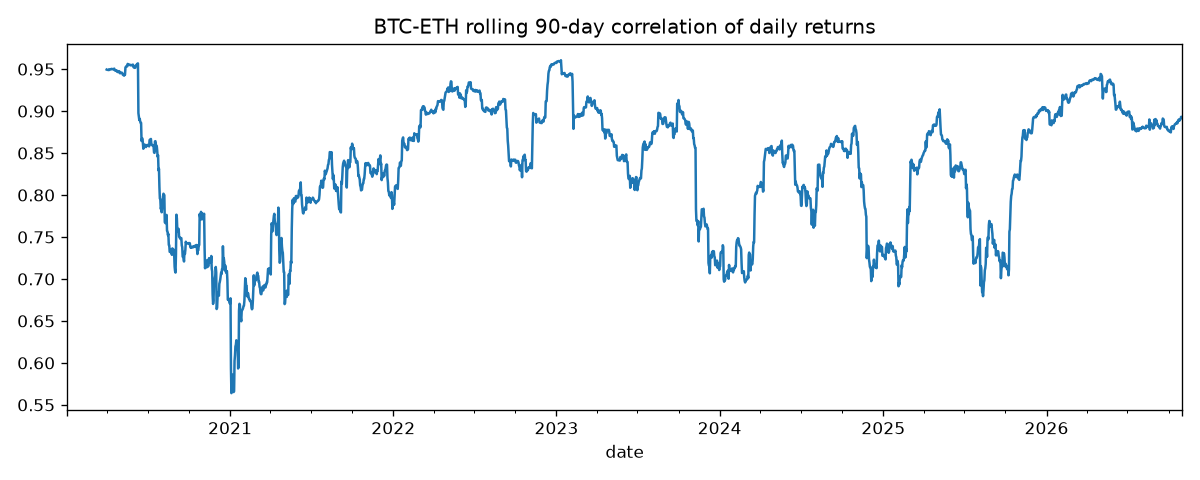
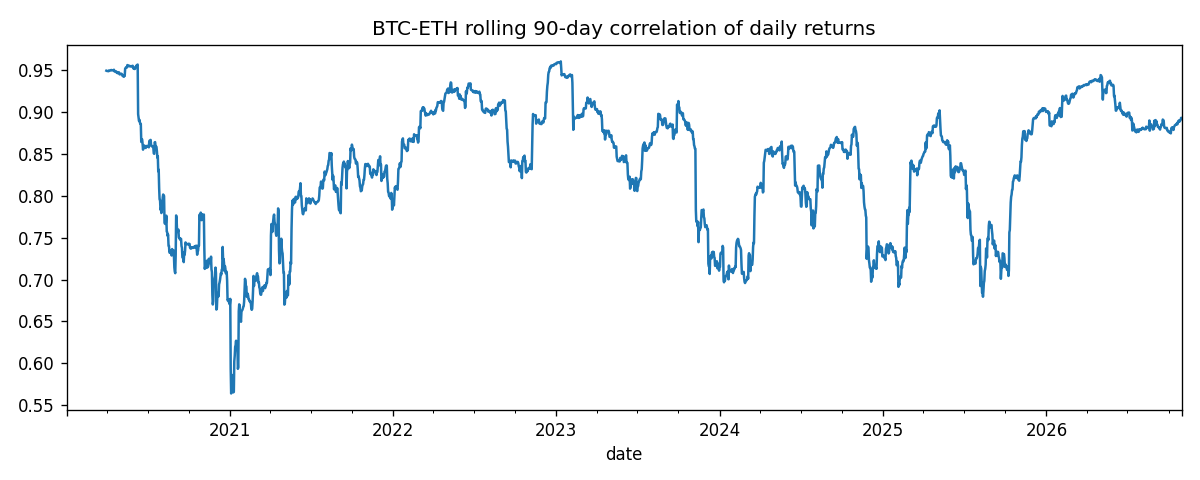
Day 7: complete log, clean requirements

diff --git a/decision_log.md b/decision_log.md
@@ -109,20 +109,12 @@
 \- ACF of squared returns: positive at all 10 lags for BTC and ETH; ETH is stronger (lags 1, 2, 4, 5, 7 above the band vs 1, 4, 7 for BTC). This is volatility clustering, which is why Week 5 forecasts volatility. Spikes at lags 4 and 7 appear in both coins: unexplained, possibly a weekly effect or driven by a few extreme shared days.
 
 
+## Day 7
 
-
-
-\## Day 7
-
-
-
-\- Correlation measured on returns, not prices (price correlation is inflated by shared trends). BTC-ETH return correlation: <value> (bootstrap 95% interval <range>).
-
-\- ETH is more volatile than BTC: std ratio <value>, ETH moved more on <share> of days (Wilcoxon p <value>).
-
-\- Mann-Whitney U used for fraud vs normal because amounts are skewed. Effect sizes (P fraud > normal): amount <value>, v14 <value>, v17 <value>. Features, not amount, carry the signal.
-
-\- p-values are tiny with 280k rows, so effect sizes drive decisions.
-
-\- Week 2 findings summarized in EDA\_findings.md.
-
+- Correlation measured on returns, not prices (shared trends can inflate price correlation). BTC-ETH return correlation: 0.833 Pearson, 0.816 Spearman (bootstrap 95% interval 0.804 to 0.863); log price correlation was 0.868. BTC explains about 69% of ETH's daily variation.
+- Rolling 90-day correlation ranges 0.56 to 0.96 and is highest in windows containing the March 2020 and November 2022 crashes: diversification between BTC and ETH weakens in stress (two episodes, so a pattern, not a proven law).
+- ETH is more volatile than BTC: std ratio 1.34 (4.2% vs 3.14%), ETH moved more on 65.3% of days (Wilcoxon p < 0.0001).
+- Mann-Whitney U used for fraud vs normal because amounts are skewed. Effect sizes (P fraud > normal): amount 0.444 (weak), v17 0.200 (strong), v14 0.053 (very strong). Features, not amount, carry the signal.
+- After dedup, median fraud amount is $9.82 (it was $9.25 with duplicates).
+- p-values are tiny with 283k rows, so effect sizes drive decisions.
+- Week 2 findings summarized in EDA_findings.md.
